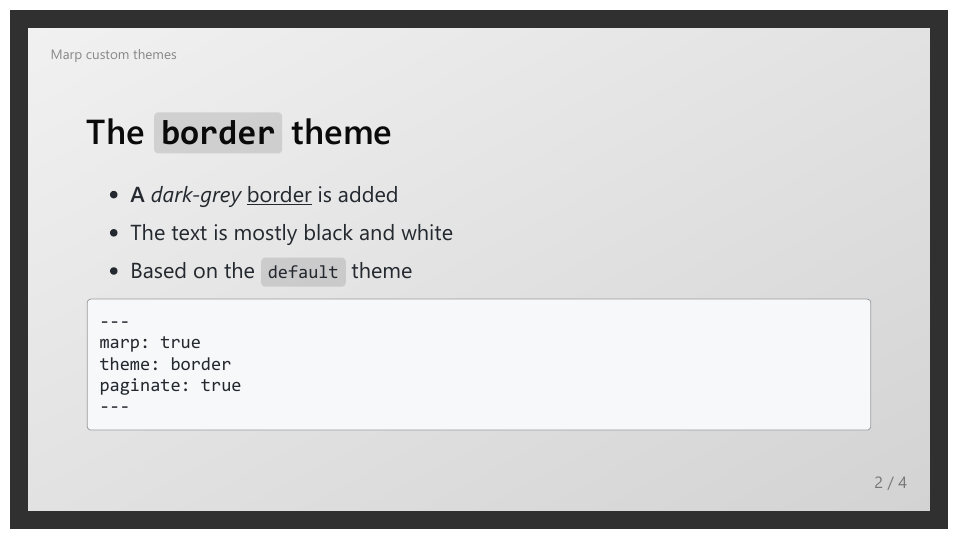
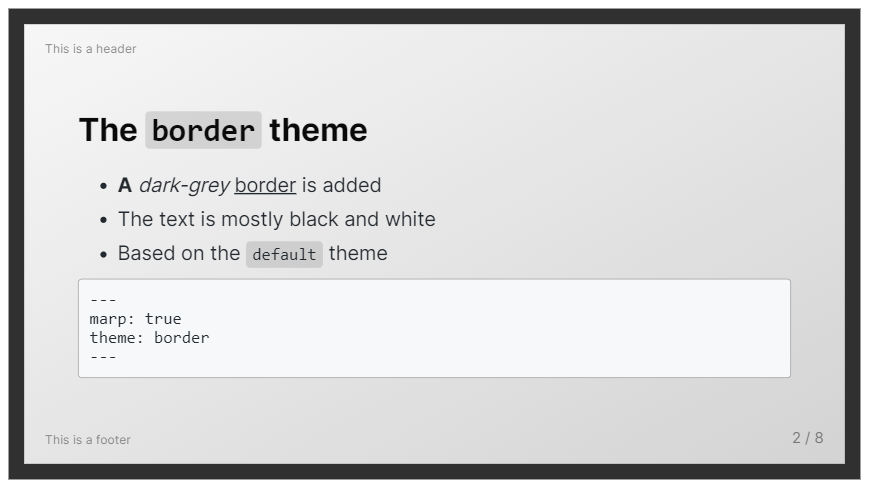
Put cobalt higher up in README

diff --git a/README.md b/README.md
@@ -7,10 +7,14 @@
 
 ![beamer sample](./samples/beamer.png)
 
-
 - `border`, based on the `default` Marp theme
 
 ![border sample](./samples/border.png)
+
+- `cobalt`, which is heavily based on [elitistsnob/typora-cobalt-theme](https://github.com/elitistsnob/typora-cobalt-theme)
+
+![cobalt](samples/cobalt.png)
+
 
 - `gradient`, also based on the `default` Marp theme
 
@@ -19,10 +23,6 @@
 - `gradient`, class `blue`
 
 ![gradient-blue](samples/gradient-blue.png)
-
-- `cobalt`, which is heavily based on [elitistsnob/typora-cobalt-theme](https://github.com/elitistsnob/typora-cobalt-theme)
-
-![cobalt](samples/cobalt.png)
 
 
 

diff --git a/testing.md b/testing.md
@@ -1,6 +1,6 @@
 ---
 marp: true
-theme: cobalt
+theme: border
 paginate: true
 size: 16:9
 header: This is a header
